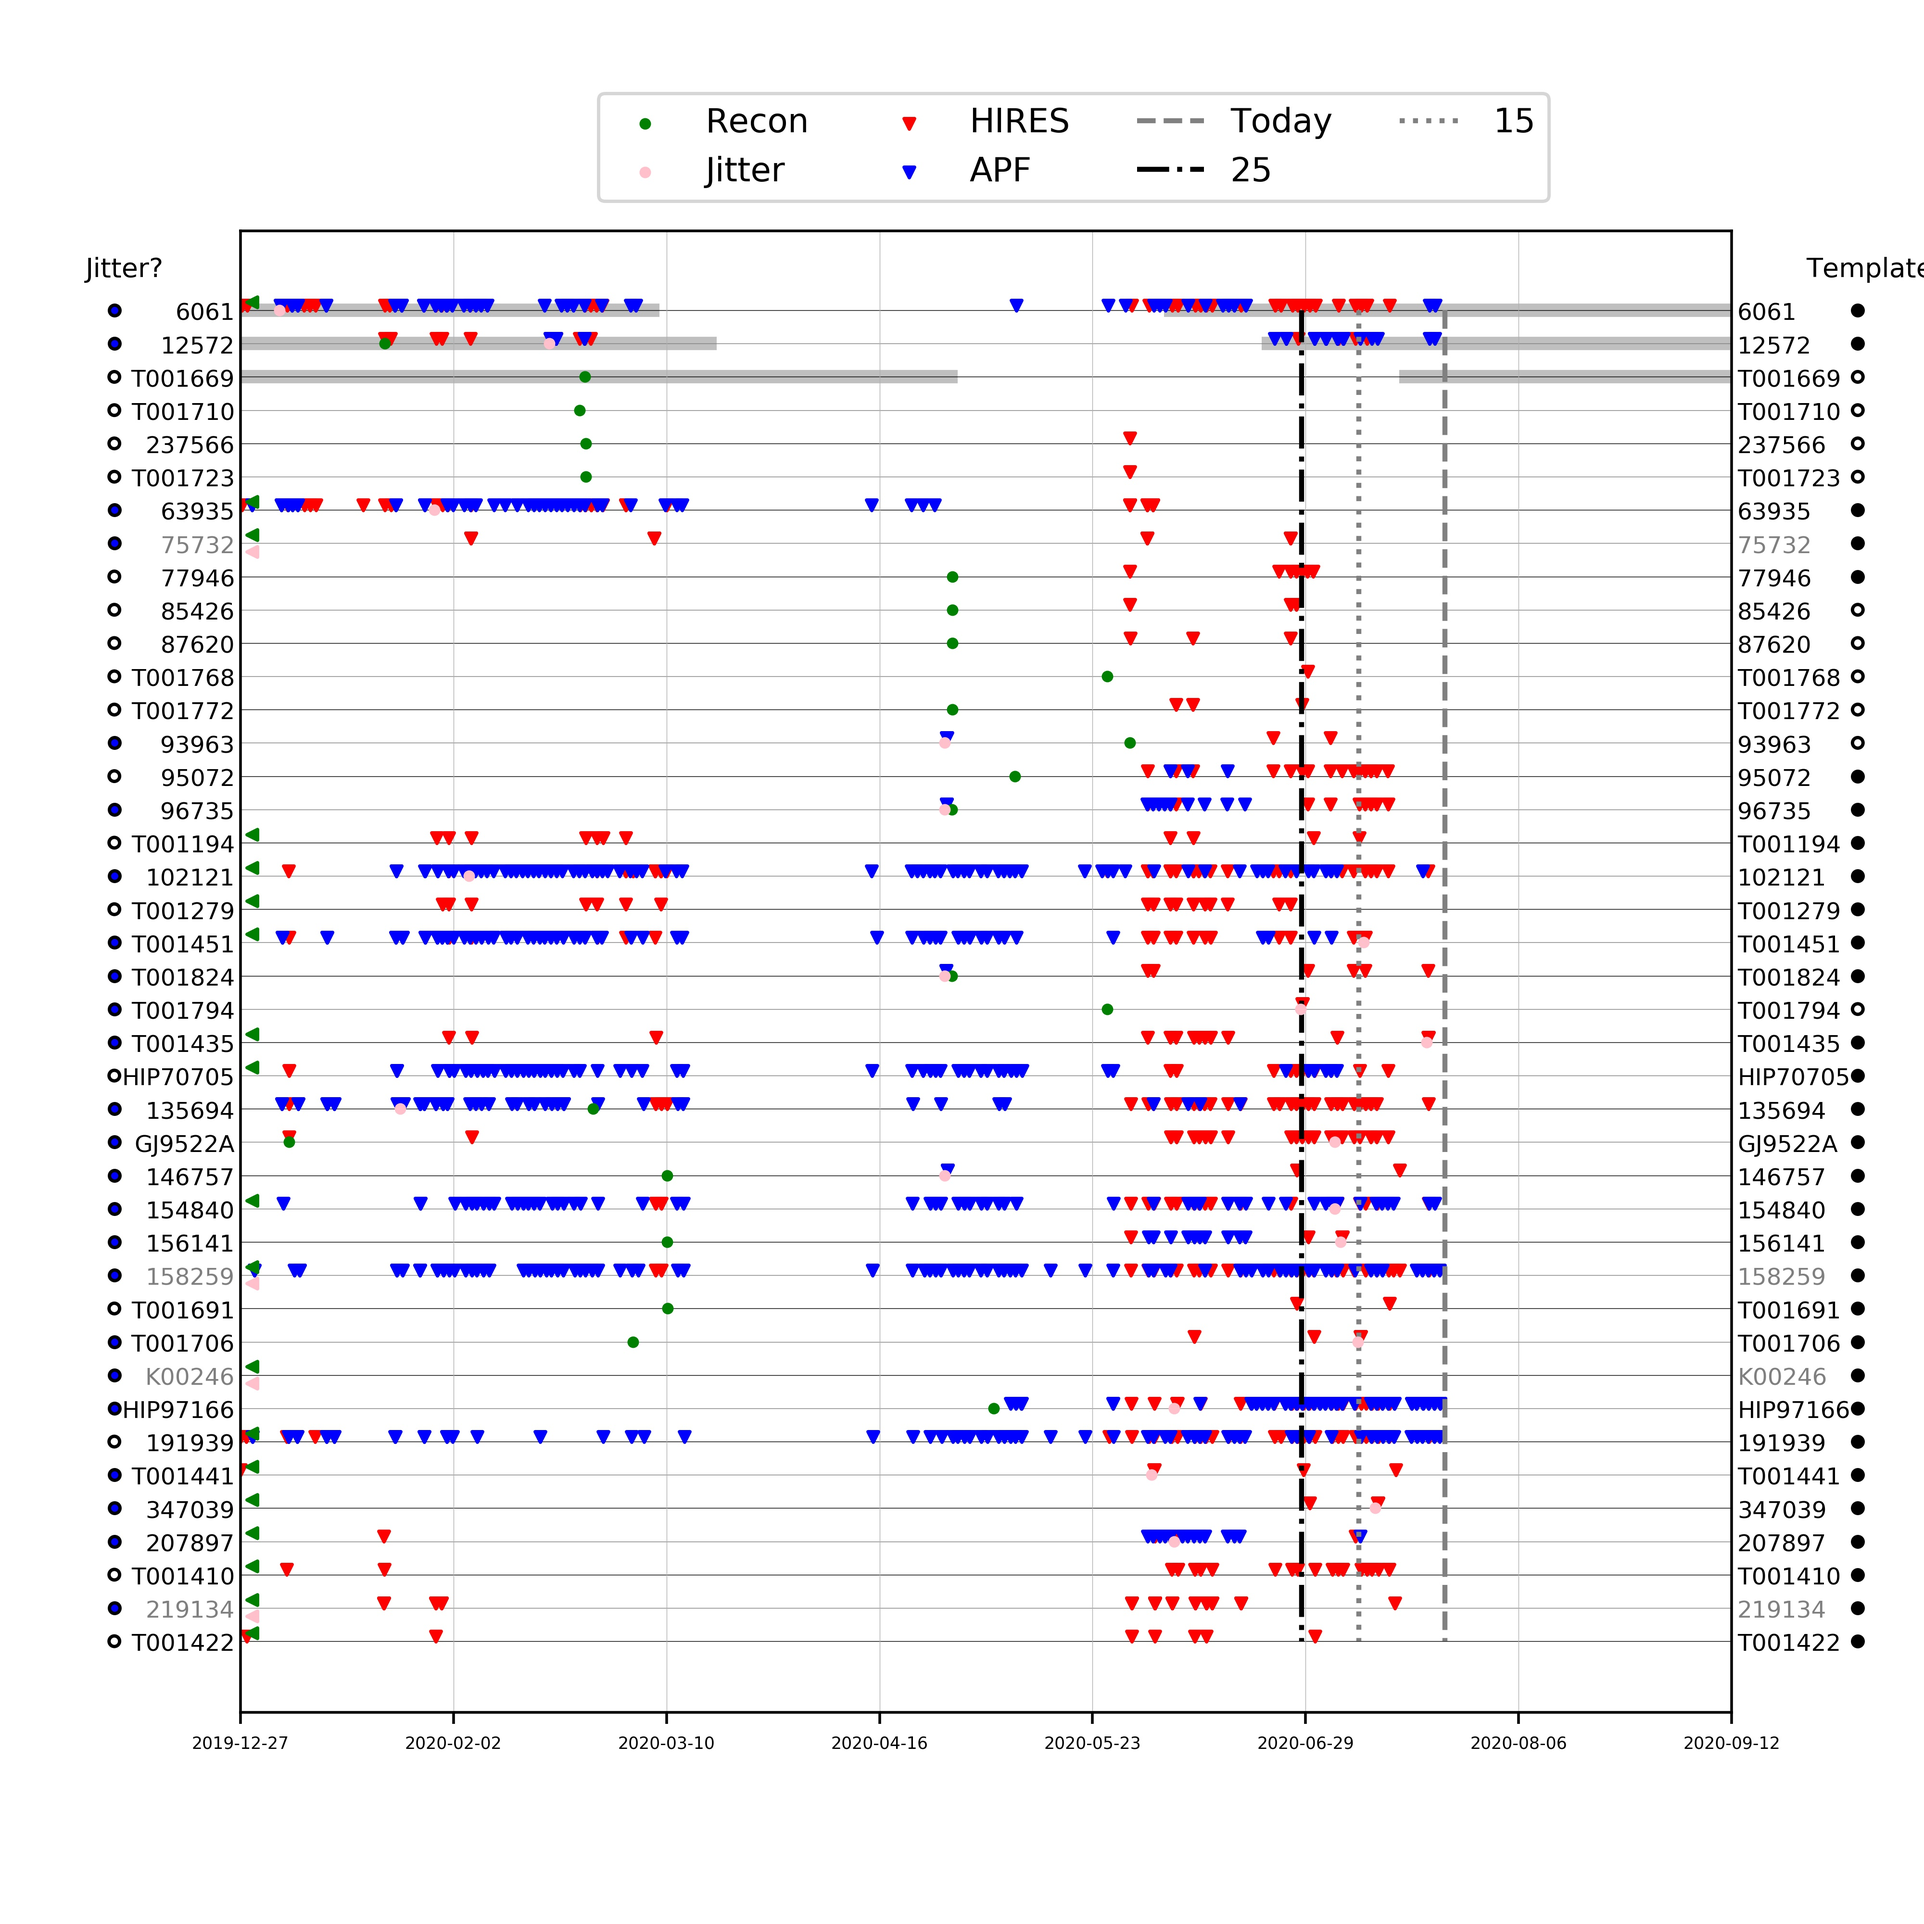
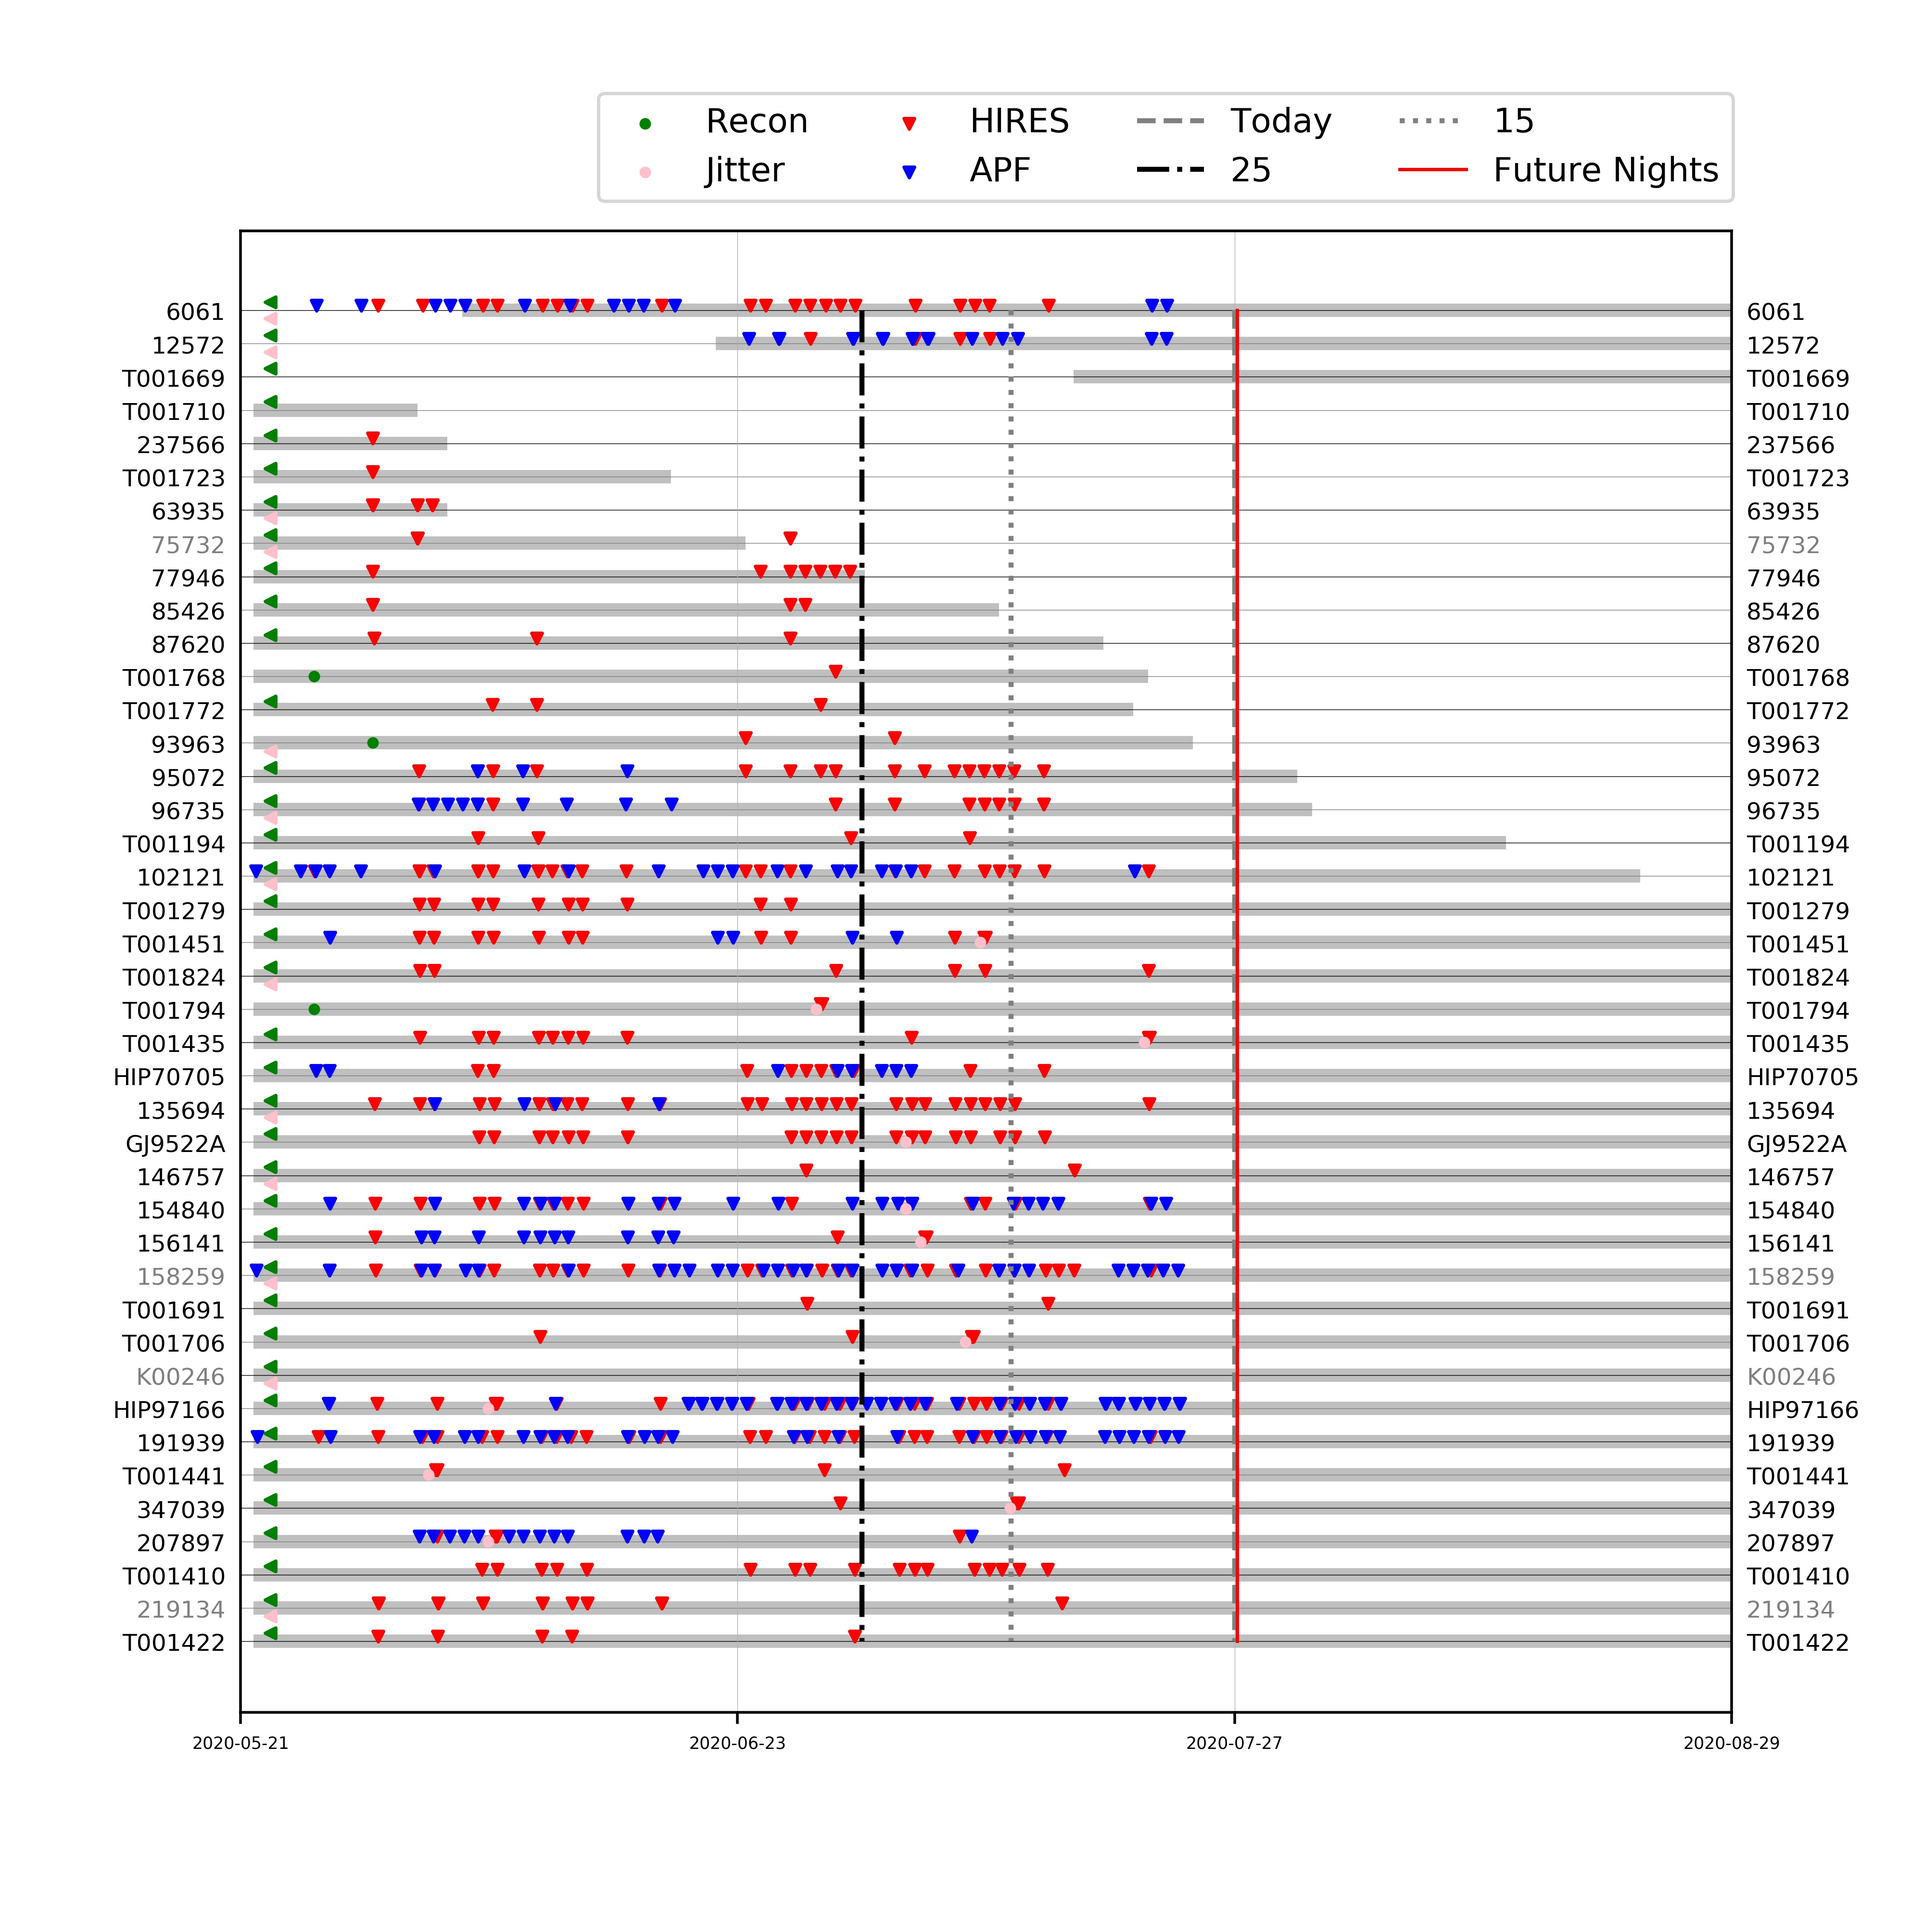
Now taking into account the next day we are on HIRES for obs requests

Changed region(s): [[0.0625, 0.1562, 0.9688, 0.875], [0.7812, 0.0625, 0.9062, 0.0938], [0.9688, 0.125, 1.0, 0.1562]]

diff --git a/target_request_generator.py b/target_request_generator.py
@@ -22,6 +22,12 @@ warnings.simplefilter('ignore', category=AstropyWarning)
 from cpsutils.obsplanning import Star
 from cpsutils.obsplanning import times
 
+import observing as obs
+from astroplan import Observer, FixedTarget
+import astropy.units as u
+from astropy.coordinates import SkyCoord
+
+
 from overview import make_overview
 from tks_distantgiants import make_distantgiants
 
@@ -38,13 +44,34 @@ def init_overview(iers = False):
     return overview_df
 
 
-def obs_request_list_gen(overview_df, day):
+def obs_request_list_gen(overview_df):
     """
     This function uses the current status of each target in overview_df (jitter, template, recon status as well as 
     time since last RV obs) to create a list of stars that need each type of observation. These are  fed to the generator
     function to be turned into actual script lines.
     """
     overview_df = overview_df.sort_values(by = 'ra_deg').reset_index(drop = True)
+    
+    observing_schedule_df = pd.read_csv('../jump-config/allocations/hires_j/hires_schedule_2020A.csv')[['Date', 'start', 'stop']]
+    
+    # The dates in the schedule are given for Hawaii time at midnight that morning. If we start observing Jan 1 at 6 pm Hawaii time, then the JD is Jan 2 at 5 am. 6 pm is early, but we don't need to be too precise because we are going to find the next sunset time anyway.
+    observing_dates = Time(observing_schedule_df['Date'].values.tolist(), format='iso').jd + 1 + 5/24
+    
+    
+    # Uses the fact that dates are in chronological order, so the min index corresponds to the earliest date
+    # index_of_next_date = min([np.where(observing_dates == i) for i in observing_dates if i > Time.now().jd])[0][0]
+    
+    next_observing_date = observing_dates[index_of_next_date]
+    # next_observing_date = Time('2020-08-16', format='iso').jd
+    
+    
+    time_gap = next_observing_date - Time.now().jd
+    
+    
+    start = observing_schedule_df['start'][index_of_next_date]
+    stop = observing_schedule_df['stop'][index_of_next_date]
+    #start, stop = 0, 1
+    
     
     request_list = [[], [], [], []]
     obs_list = ['have_recon', 'have_jitter', 'have_template']
@@ -71,10 +98,12 @@ def obs_request_list_gen(overview_df, day):
         Dec_new = sign + str(int(abs(Dec_deg))).zfill(2) +'d'+ str(int((abs(Dec_deg) - int(abs(Dec_deg)))*60)).zfill(2) +'m'+ str(int(np.round((((abs(Dec_deg) - int(abs(Dec_deg)))*60)%1)*60, 0))).zfill(2)+'s'
        
         star_object = Star.star(star_name, RA = RA_new, Dec = Dec_new)
-       
-        observer_times = times.ObserverTimes(utc_date = day)
+        
+        # observer_times = times.ObserverTimes(utc_date = observing_schedule_df['Date'][index_of_next_date], night_kind = [start, stop])
+        observer_times = times.ObserverTimes(utc_date = Time(next_observing_date, format='jd').iso.split(' ')[0], night_kind = [start, stop])
         
         visibility = star_object.visibility(observer_times, verbose = False)
+        
         visible_time = max([i[2] for i in star_object.visibility(observer_times, verbose = False)])
 
         if visible_time < 0.5*u.h:
@@ -87,7 +116,7 @@ def obs_request_list_gen(overview_df, day):
                     # Jitter test stars must pass the extra criterion of being visible for ~3 hours. Skipping 191939 at Howard's suggestion.
                     if (obs_list[j] == 'have_jitter' and visible_time < 3*u.h) or star_name == '191939' :
                         continue
-                    # Templates will only be requested if the star already has more than 3 iodine-in RVs
+                    # Templates will only be requested if the star already has 3 or more iodine-in RVs
                     if (obs_list[j]) == 'have_template_hires_j' and overview_df['tot_iodine_hires'][i] + overview_df['tot_iodine_apf'][i] < 3:
                         continue
                         
@@ -100,7 +129,7 @@ def obs_request_list_gen(overview_df, day):
                     hires_never = True
                 else:
                     hires_never = False
-                    hires_days = float(overview_df['last_obs_hires'][i])
+                    hires_days = float(overview_df['last_obs_hires'][i]) + time_gap # Computes days that will have passed since last obs on the actual day of observation
     
                 if overview_df['last_obs_apf'][i] == 'NEVER':
                     apf_never = True
@@ -253,7 +282,7 @@ def generator(star_requests):
 
 if __name__ == '__main__':
     
-    generator(obs_request_list_gen(init_overview(), Time.now().iso.split(' ')[0]))
+    generator(obs_request_list_gen(init_overview(iers=True)))
     
     
     

diff --git a/overview.py b/overview.py
@@ -166,14 +166,12 @@ def make_overview(plot = False):
         y_length = np.arange(len(plot_df['star_id']))[::-1]
 
         y_increment = (y_length[1]-y_length[0])
-
-        display_window = 210 # How far back in time to display
-
+        display_window = 100
         keck = Observer.at_site('W. M. Keck Observatory') # Site for astroplan to get sunrise/set
         observatory = obs.setupObservatory('keck') # Site for Ian's observing code
 
-        start_date = Time.now().jd-210
-        end_date = Time.now().jd+50
+        start_date = Time.now().jd-2*display_window/3
+        end_date = Time.now().jd+display_window/3
         sidereal_offset = 0.002731 # This is how much earlier a target rises each day (in days)
 
         # Dates to display on the x-axis. Roughly one tick per month by dividing the window by 30
@@ -249,7 +247,7 @@ def make_overview(plot = False):
             ### Observability ###
             observability = True
             # Plotting observability bars takes a while; pick how many stars you want bars for here.
-            if i in [0,1,2]:
+            if observability:
                 
                 star_name = plot_df['star_id'][i]
                 ra_deg = plot_df['ra_deg'][i]
@@ -346,18 +344,35 @@ def make_overview(plot = False):
                                  color = 'red', s = 10, zorder=z_order_list.index('rv_pts'))
 
         cadenced_apf_rvs = ax.scatter(cadenced_apf_dates, cadenced_apf_y - 0.15*(y_length[1]-y_length[0]), marker = 'v', 
-                                 color = 'blue', s = 10, zorder=z_order_list.index('rv_pts'))  
+                                 color = 'blue', s = 10, zorder=z_order_list.index('rv_pts'))
+        
+        
+        ############
+        observing_schedule_df = pd.read_csv('../jump-config/allocations/hires_j/hires_schedule_2020A.csv')[['Date', 'start', 'stop']]
+    
+        # The dates in the schedule are given for Hawaii time at midnight that morning. If we start observing Jan 1 at 6 pm Hawaii time, then the JD is Jan 2 at 5 am. 6 pm is early, but we don't need to be too precise because we are going to find the next sunset time anyway.
+        observing_dates = Time(observing_schedule_df['Date'].values.tolist(), format='iso').jd + 1 + 5/24
+    
+    
+        # Uses the fact that dates are in chronological order, so the min index corresponds to the earliest date
+        index_of_next_date = min([np.where(observing_dates == i) for i in observing_dates if i > Time.now().jd])[0][0]
+        
+        
+        next_obs = [observing_dates[index_of_next_date+n] for n in range(1)]
+        ############
 
 
         line_today, = ax.plot((Time.now().jd, Time.now().jd), (y_length[0], y_length[-1]), c = 'gray', linestyle = 'dashed')
         line_15, = ax.plot((Time.now().jd-15, Time.now().jd-15), (y_length[0], y_length[-1]), c = 'gray', linestyle = 'dotted')
         line_25, = ax.plot((Time.now().jd-25, Time.now().jd-25), (y_length[0], y_length[-1]), c = 'black', linestyle = 'dashdot')
+        for i in next_obs:
+            line_next_obs, = ax.plot((next_obs, next_obs), (y_length[0], y_length[-1]), linewidth = 1, c = 'red')
 
         plt.xticks(date_intervals_jd, date_intervals_iso, fontsize = 5)
 
 
         plt.yticks([], [], size = 14)
-        ax.legend([recon_pts, jitter_pts, cadenced_hires_rvs, cadenced_apf_rvs, line_today, line_25, line_15], ['Recon', 'Jitter', 'HIRES', 'APF', 'Today', '25', '15'], loc = (0.24,1.02), prop = {'size':10}, ncol = 4);
+        ax.legend([recon_pts, jitter_pts, cadenced_hires_rvs, cadenced_apf_rvs, line_today, line_25, line_15, line_next_obs], ['Recon', 'Jitter', 'HIRES', 'APF', 'Today', '25', '15', 'Future Nights'], loc = (0.24,1.02), prop = {'size':10}, ncol = 4);
         plt.savefig('csv/overview_plot.jpg', dpi = 500, quality=95)
         plt.show()
         

diff --git a/update.py b/update.py
@@ -23,4 +23,6 @@ tks_spec.update_distantgiants_spec(tks_spec.make_distantgiants_spec())
 tks.update_distantgiants(tks.make_distantgiants())
 
 ov.update_overview(ov.make_overview(plot = False))
-generator(obs_request_list_gen(init_overview(), Time.now().iso.split(' ')[0]))
+generator(obs_request_list_gen(init_overview()))
+
+
